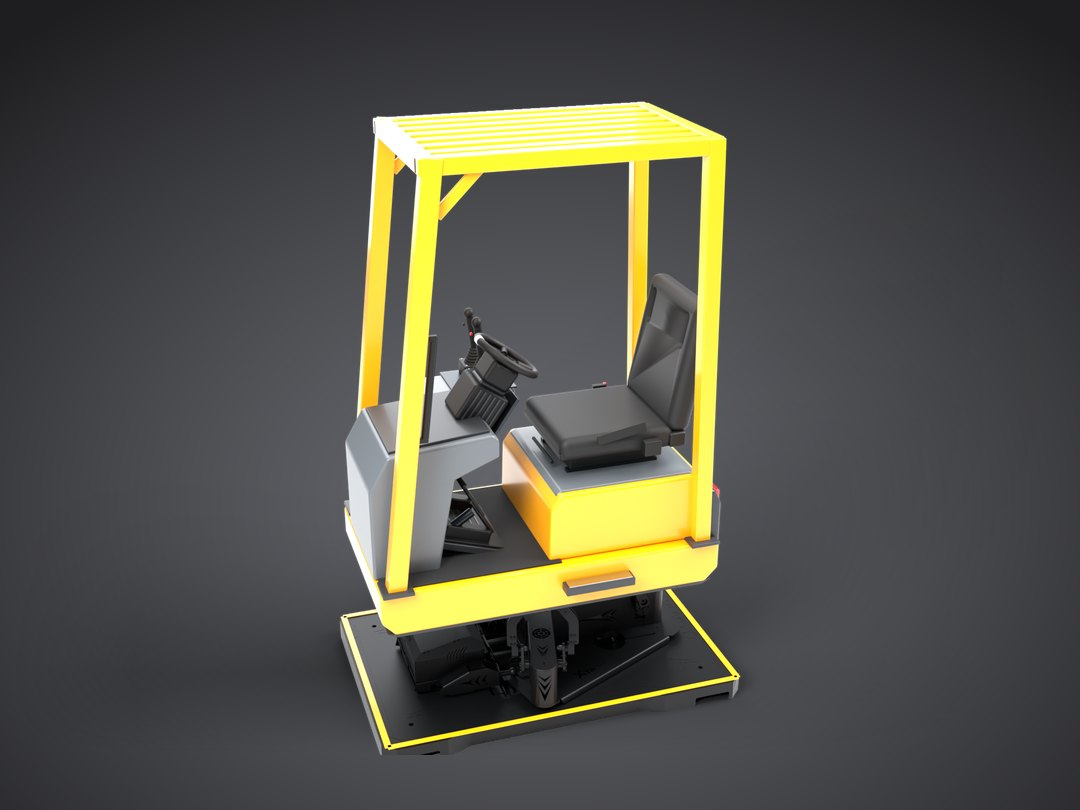
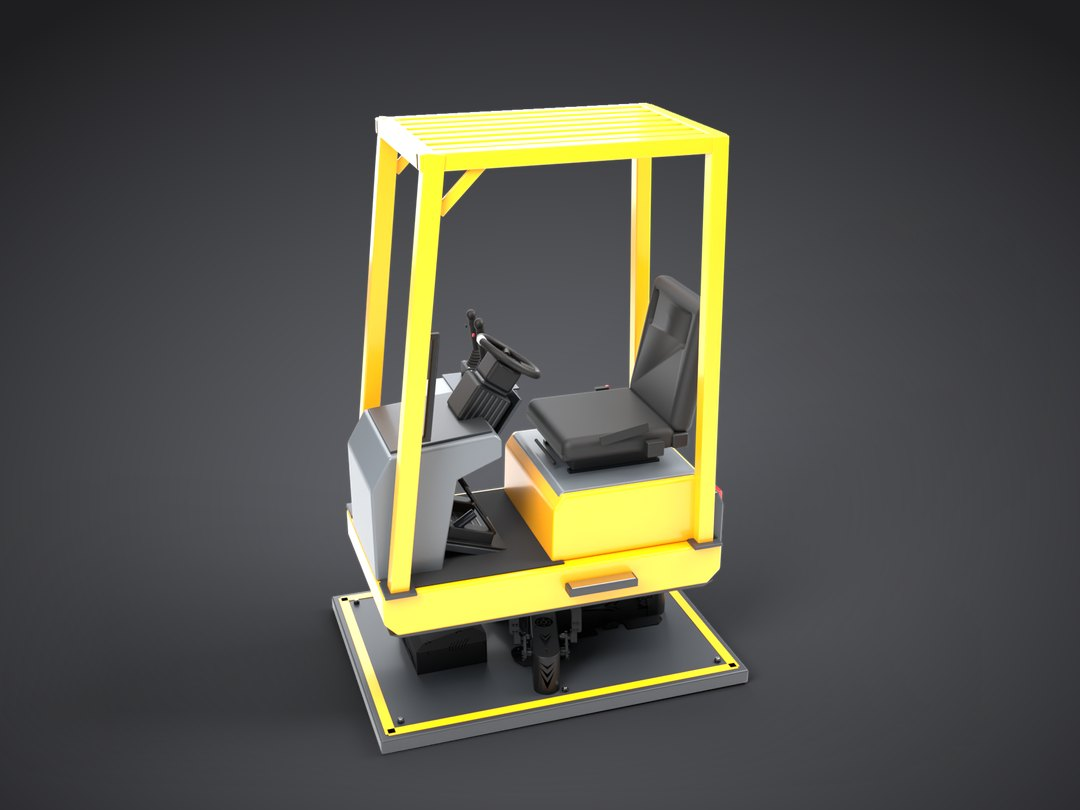
[Claude] Work 07 지게차: XTA 3축만 + 절곡 하판으로 다시 렌더
- 모션을 XTA 3축(123D)만 쓰는 구성으로 바꿔 대표 그림 · 목록 카드 · 뒤쪽 · 운전 자세 그림을 다시 뽑음(56D · 4D 뺌)
- 3축 밑에 네 변을 아래로 꺾은 강판 하판 1,500 × 1,100 + 안에 숨긴 방진 고무발 6개, 전체 높이 약 2,170
- 04 MOTION에 넘어짐 대책(하판) 한 줄, 설계 정보 크기 칸 · 대체 글 수정, 그림 주소 v=2

Changed region(s): [[0.3056, 0.1235, 0.7028, 0.9259], [0.55, 0.463, 0.5806, 0.4938]]

diff --git a/forklift/index.html b/forklift/index.html
@@ -37,8 +37,8 @@
 <section class="hero detail-hero" aria-label="대표 이미지">
   <div class="slide on">
     <picture>
-      <source media="(min-width: 900px)" srcset="../img/hero_forklift_d.jpg?v=1">
-      <img src="../img/hero_forklift_m.jpg?v=1" alt="노란 차체와 헤드가드를 단 지게차 운전석이 검은 3축 모션 플랫폼 위에 올라가 있는 3D 렌더" width="1200" height="1600" style="object-position: center 55%">
+      <source media="(min-width: 900px)" srcset="../img/hero_forklift_d.jpg?v=2">
+      <img src="../img/hero_forklift_m.jpg?v=2" alt="노란 차체와 헤드가드를 단 지게차 운전석이 검은 3축 모션 플랫폼과 넓은 받침판 위에 올라가 있는 3D 렌더" width="1200" height="1600" style="object-position: center 55%">
     </picture>
   </div>
 </section>
@@ -58,7 +58,7 @@
         <div><dt>조작</dt><dd>핸들 · 2페달 · 조이스틱 2개(리프트 · 틸트 · 사이드시프트)</dd></div>
         <div><dt>차체</dt><dd>지게차형 외장 · 헤드가드 · 카운터웨이트 · 후미등</dd></div>
         <div><dt>모션</dt><dd>3축(롤 · 피치 · 히브) · GAMA XTA</dd></div>
-        <div><dt>크기</dt><dd>전체 높이 약 2,280 mm</dd></div>
+        <div><dt>크기</dt><dd>전체 높이 약 2,170 mm · 받침판 1,500 × 1,100 mm</dd></div>
         <div><dt>상태</dt><dd>콘셉트 설계 · 3D 렌더 (실물 제작 전)</dd></div>
       </dl>
     </div>
@@ -72,7 +72,7 @@
         <p>레이싱 시뮬레이터는 낮게 눕혀 앉고 핸들이 서 있습니다. 지게차는 높이 앉고 핸들이 눕혀져 있습니다. 같은 모션 플랫폼 위에서 방석을 레이싱 시트보다 355 mm 올려 발판에서 460 mm에 두고, 핸들 면을 수평에서 35° 눕혀 발판 위 740 mm에 놓았습니다. 사람 모형을 앉혀 무릎 각도와 손이 닿는 거리를 맞췄습니다.</p>
         <p class="note">옆에서 본 운전 자세입니다. 단위 mm.</p>
       </div>
-      <div class="pic white"><img src="../img/forklift_pose.jpg?v=1" alt="사람 모형이 앉은 지게차 콕핏의 옆모습. 방석 높이 460, 핸들 35°, 전체 높이 약 2,280 치수가 적혀 있다" width="1520" height="1000" loading="lazy"></div>
+      <div class="pic white"><img src="../img/forklift_pose.jpg?v=2" alt="사람 모형이 앉은 지게차 콕핏의 옆모습. 방석 높이 460, 핸들 35°, 전체 높이 약 2,170 치수가 적혀 있다" width="1520" height="1000" loading="lazy"></div>
     </article>
 
     <article class="step">
@@ -99,10 +99,10 @@
       <div class="text">
         <span class="no cond">04 — MOTION</span>
         <h2>모션이 버틸 수 있게</h2>
-        <p>운전석이 높아지고 헤드가드가 올라가면 모션 플랫폼이 들어 올릴 무게와 무게중심이 함께 높아집니다. 외장 · 헤드가드 · 뼈대만 남긴 안까지 나눠 콕핏 무게와 무게중심, 옆으로 흔들 때의 관성을 비교하고, 헤드가드는 알루미늄으로 가볍게 하는 쪽을 정리했습니다. 노면 턱과 급정지, 경사로, 회전할 때의 쏠림은 플랫폼의 롤 · 피치 · 히브로 몸에 전합니다.</p>
+        <p>운전석이 높아지고 헤드가드가 올라가면 모션 플랫폼이 들어 올릴 무게와 무게중심이 함께 높아집니다. 외장 · 헤드가드 · 뼈대만 남긴 안까지 나눠 콕핏 무게와 무게중심, 옆으로 흔들 때의 관성을 비교하고, 헤드가드는 알루미늄으로 가볍게 하는 쪽을 정리했습니다. 3축 바닥틀은 앞뒤로 짧은데 콕핏은 길어서, 그대로 두면 앞으로 20° 남짓 기울 때 넘어갈 수 있습니다. 그래서 밑에 네 변을 아래로 꺾은 1,500 × 1,100 강판 하판을 깔고, 높이 조절 방진 고무발 여섯 개를 그 안에 숨겨 무게를 낮추고 발 간격을 넓혔습니다. 노면 턱과 급정지, 경사로, 회전할 때의 쏠림은 플랫폼의 롤 · 피치 · 히브로 몸에 전합니다.</p>
         <p class="note">3D 렌더입니다. 3축 모션 플랫폼: GAMA XTA. 실물은 아직 만들지 않았습니다.</p>
       </div>
-      <div class="pic"><img src="../img/forklift_rear.jpg?v=1" alt="뒤에서 본 지게차 콕핏. 카운터웨이트와 후미등, 헤드가드, 아래의 검은 3축 모션 플랫폼" width="1520" height="1000" loading="lazy"></div>
+      <div class="pic"><img src="../img/forklift_rear.jpg?v=2" alt="뒤에서 본 지게차 콕핏. 카운터웨이트와 후미등, 헤드가드, 아래의 검은 3축 모션 플랫폼과 노란 띠를 두른 받침판" width="1520" height="1000" loading="lazy"></div>
     </article>
   </section>
 

diff --git a/index.html b/index.html
@@ -137,7 +137,7 @@
       </li>
       <li class="rv">
         <a class="tile" href="forklift/">
-          <div class="ph"><img src="img/forklift_case.jpg?v=1" alt="헤드가드를 단 노란 지게차 운전석이 3축 모션 플랫폼 위에 올라간 3D 렌더" width="1080" height="810" loading="lazy"></div>
+          <div class="ph"><img src="img/forklift_case.jpg?v=2" alt="헤드가드를 단 노란 지게차 운전석이 3축 모션 플랫폼과 받침판 위에 올라간 3D 렌더" width="1080" height="810" loading="lazy"></div>
           <div class="meta"><span class="no cond">07</span><span class="t cond"><span>FORKLIFT SIM</span></span><span class="k">지게차 교육 시뮬레이터 콕핏</span></div>
         </a>
       </li>
